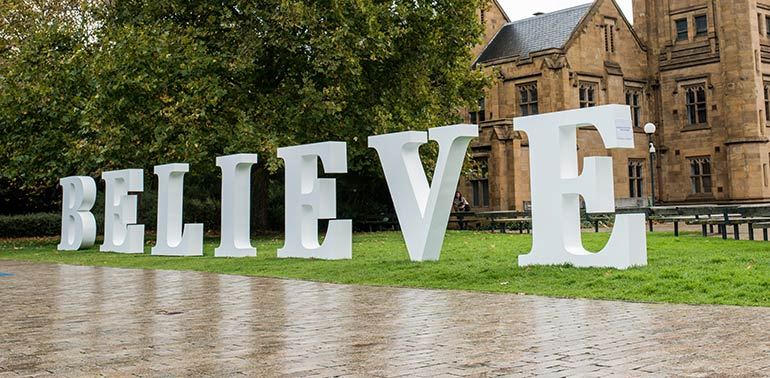
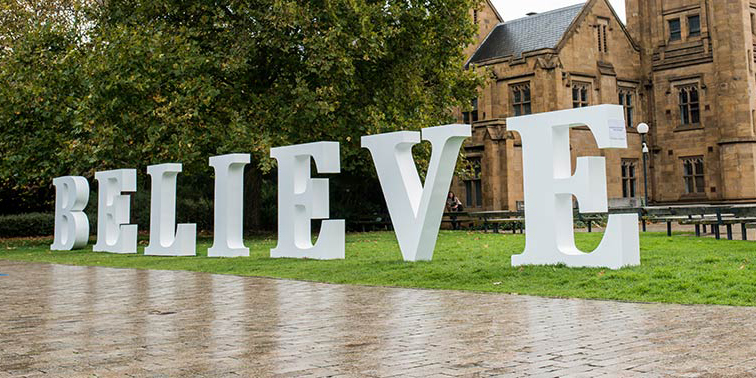
new promo example

diff --git a/home-page-2016.html b/home-page-2016.html
@@ -130,13 +130,13 @@ heroImage:  http://education.unimelb.edu.au/__data/assets/image/0007/1244833/que
             <div class="promotion card">
                 <a href="">
                     <header>
-                        <img src="/img/promo.jpg" alt="">
+                        <img src="/img/promo-2.jpg" alt="">
                     </header>
                     <div class="card-main">
-                        <h3>Start your teaching career three years before you graduate</h3>
-                        <p>Master of Teaching (Secondary) Internship</p>
+                        <h3>While you’re learning you’ll teach. While you’re teaching, you’ll learn.</h3>
+                        <p>Attend a Master of Teaching information session</p>
                     </div>
-                    <p class="cta">Apply now</p>
+                    <p class="cta">Register now</p>
                 </a>
             </div>
             <div class="testimonial promotion card">
